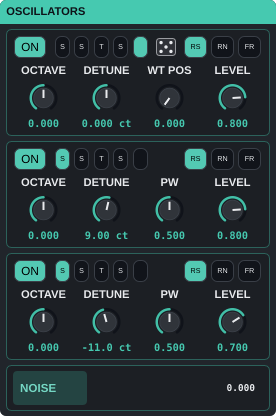
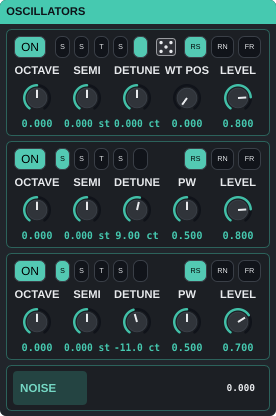
Per-oscillator coarse tune (SEMI) + Fifth Stack (bank -> 101)
Each oscillator gains a SEMI param: coarse tune in semitones (-24..+24),
sitting next to OCTAVE, so you can stack musical intervals (a fifth, a
fourth) from a single key instead of only octaves.

- Params: osc1/2/3_semi (int -24..+24, default 0), added to perPartSoundIds
  so they save/recall + edit-focus-swap per part.
- Frequency: SynthVoice::setFrequency adds + semi/12 to each osc's exp2
  exponent. Default 0 => exponent unchanged => goldens bit-identical.
- RANDOM: SEMI forced to 0 st (in tune) for now (a future density pass will
  quantize it to musical intervals — see docs/plans/random-density.md).
- UI: a 5th knob per oscillator (row /4 -> /5), grouped with OCTAVE; the
  PW<->WT-POS swap moves to the new PW slot. Screenshots regenerated.
- Test: osc2 SEMI +7 measures a perfect fifth (2^(7/12)), +12 an octave.

New Fifth Stack lead uses it (osc2 +7, osc3 +1 oct) — an instant
power-interval lead, the feature the bank lacked. Count 100 -> 101.

Release 530 + sanitizer (ASan/LSan/UBSan + soak) green.

diff --git a/Source/UI/Sections.h b/Source/UI/Sections.h
@@ -65,6 +65,7 @@ public:
         const char* waveIds[] { ID::osc1Wave, ID::osc2Wave, ID::osc3Wave };
         const char* wtPosIds[]  { ID::osc1WtPos,  ID::osc2WtPos,  ID::osc3WtPos  };
         const char* octIds[]  { ID::osc1Octave, ID::osc2Octave, ID::osc3Octave };
+        const char* semiIds[] { ID::osc1Semi, ID::osc2Semi, ID::osc3Semi };
         const char* detIds[]  { ID::osc1Detune, ID::osc2Detune, ID::osc3Detune };
         const char* pwIds[]   { ID::osc1PW, ID::osc2PW, ID::osc3PW };
         const char* lvlIds[]  { ID::osc1Level, ID::osc2Level, ID::osc3Level };
@@ -79,11 +80,13 @@ public:
             o.wave = std::make_unique<HSelector> (p.apvts, waveIds[i], p.getMidiLearn(), waveLabels);
             o.phase = std::make_unique<HSelector> (p.apvts, phIds[i], p.getMidiLearn(), phaseLabels);
             o.phase->setHelp ("Start phase per note: RST reset / RND random / FRE free-run");
-            o.k[0] = std::make_unique<RotaryKnob> (p.apvts, octIds[i], "OCTAVE", p.getMidiLearn());
-            o.k[1] = std::make_unique<RotaryKnob> (p.apvts, detIds[i], "DETUNE", p.getMidiLearn());
-            o.k[2] = std::make_unique<RotaryKnob> (p.apvts, pwIds[i],  "PW",     p.getMidiLearn());
-            o.k[3] = std::make_unique<RotaryKnob> (p.apvts, lvlIds[i], "LEVEL",  p.getMidiLearn());
-            // #95 3c: a WT POS knob shares the PW slot (k[2]) — PW is meaningless for a wavetable.
+            o.k[0] = std::make_unique<RotaryKnob> (p.apvts, octIds[i],  "OCTAVE", p.getMidiLearn());
+            o.k[1] = std::make_unique<RotaryKnob> (p.apvts, semiIds[i], "SEMI",   p.getMidiLearn());
+            o.k[1]->setHelp ("Coarse tune this oscillator in semitones (-24..+24) — stack intervals like a fifth");
+            o.k[2] = std::make_unique<RotaryKnob> (p.apvts, detIds[i], "DETUNE", p.getMidiLearn());
+            o.k[3] = std::make_unique<RotaryKnob> (p.apvts, pwIds[i],  "PW",     p.getMidiLearn());
+            o.k[4] = std::make_unique<RotaryKnob> (p.apvts, lvlIds[i], "LEVEL",  p.getMidiLearn());
+            // #95 3c: a WT POS knob shares the PW slot (k[3]) — PW is meaningless for a wavetable.
             // A ParameterAttachment on the wave choice swaps which of the two is visible (the same
             // same-bounds morph idiom as the LFO RATE<->DIV knob and the EnvSection AMP/MOD swap).
             o.wtpos = std::make_unique<RotaryKnob> (p.apvts, wtPosIds[i], "WT POS", p.getMidiLearn());
@@ -147,10 +150,10 @@ public:
             // in WT mode. Reserved always (not carved on mode change) so nothing shifts between modes.
             o.die->setBounds (top.removeFromRight (22).reduced (0, 3)); top.removeFromRight (4);
             o.wave->setBounds (top);
-            const int kw = c.getWidth() / 4;
-            for (int k = 0; k < 4; ++k)
-                o.k[(size_t) k]->setBounds ((k < 3 ? c.removeFromLeft (kw) : c).reduced (2, 0));
-            o.wtpos->setBounds (o.k[2]->getBounds());   // shares the PW slot (visibility swaps)
+            const int kw = c.getWidth() / 5;
+            for (int k = 0; k < 5; ++k)
+                o.k[(size_t) k]->setBounds ((k < 4 ? c.removeFromLeft (kw) : c).reduced (2, 0));
+            o.wtpos->setBounds (o.k[3]->getBounds());   // shares the PW slot (visibility swaps)
         }
         // NOISE fill-bar: fills the row to the right of the "NOISE" source label (the open middle
         // between them is the reserved post-1.0 COLOR-selector slot). The bar itself shows the level.
@@ -176,7 +179,7 @@ private:
         auto* wave = dynamic_cast<juce::AudioParameterChoice*> (proc.apvts.getParameter (waveId (osc)));
         const bool wt = wave != nullptr && wave->getIndex() == kWtWaveIndex;
         auto& o = oscs[(size_t) osc];
-        if (o.k[2])  o.k[2]->setVisible (! wt);
+        if (o.k[3])  o.k[3]->setVisible (! wt);
         if (o.wtpos) o.wtpos->setVisible (wt);
         if (o.die)   o.die->setVisible (wt);
     }
@@ -250,7 +253,7 @@ private:
     {
         std::unique_ptr<PowerToggle> on;
         std::unique_ptr<HSelector> wave, phase;
-        std::array<std::unique_ptr<RotaryKnob>, 4> k;
+        std::array<std::unique_ptr<RotaryKnob>, 5> k;   // OCTAVE, SEMI, DETUNE, PW, LEVEL
         std::unique_ptr<RotaryKnob> wtpos;                    // shares the PW slot; visible only in WT mode
         std::unique_ptr<DieButton>  die;                      // WT-mode re-roll affordance (right of the picker)
         std::unique_ptr<juce::ParameterAttachment> waveAtt;  // morphs PW <-> WT POS on wave change

diff --git a/Source/Parameters.h b/Source/Parameters.h
@@ -22,18 +22,21 @@ namespace ParamID
     // Oscillator 1
     inline constexpr auto osc1Wave    = "osc1_wave";     // saw / square / tri / sine
     inline constexpr auto osc1Octave  = "osc1_octave";   // -2..+2
+    inline constexpr auto osc1Semi    = "osc1_semi";     // coarse tune, -24..+24 semitones
     inline constexpr auto osc1Detune  = "osc1_detune";   // cents
     inline constexpr auto osc1PW      = "osc1_pw";       // pulse width (square only)
 
     // Oscillator 2
     inline constexpr auto osc2Wave    = "osc2_wave";
     inline constexpr auto osc2Octave  = "osc2_octave";
+    inline constexpr auto osc2Semi    = "osc2_semi";
     inline constexpr auto osc2Detune  = "osc2_detune";
     inline constexpr auto osc2PW      = "osc2_pw";
 
     // Oscillator 3 (6A)
     inline constexpr auto osc3Wave    = "osc3_wave";
     inline constexpr auto osc3Octave  = "osc3_octave";
+    inline constexpr auto osc3Semi    = "osc3_semi";
     inline constexpr auto osc3Detune  = "osc3_detune";
     inline constexpr auto osc3PW      = "osc3_pw";
 
@@ -253,16 +256,19 @@ inline juce::AudioProcessorValueTreeState::ParameterLayout createParameterLayout
     // --- Oscillators -------------------------------------------------------
     params.push_back(std::make_unique<Pc>(juce::ParameterID{ID::osc1Wave, 1},  "Osc1 Wave", waveNames, 0));
     params.push_back(std::make_unique<P >(juce::ParameterID{ID::osc1Octave, 1},"Osc1 Octave", juce::NormalisableRange<float>(-2.0f, 2.0f, 1.0f), 0.0f));
+    params.push_back(std::make_unique<P >(juce::ParameterID{ID::osc1Semi, 1},  "Osc1 Semi", juce::NormalisableRange<float>(-24.0f, 24.0f, 1.0f), 0.0f, juce::AudioParameterFloatAttributes().withLabel ("st")));
     params.push_back(std::make_unique<P >(juce::ParameterID{ID::osc1Detune, 1},"Osc1 Detune", juce::NormalisableRange<float>(-100.0f, 100.0f), 0.0f, juce::AudioParameterFloatAttributes().withLabel ("ct")));
     params.push_back(std::make_unique<P >(juce::ParameterID{ID::osc1PW, 1},    "Osc1 PW", juce::NormalisableRange<float>(0.05f, 0.95f), 0.5f));
 
     params.push_back(std::make_unique<Pc>(juce::ParameterID{ID::osc2Wave, 1},  "Osc2 Wave", waveNames, 0));
     params.push_back(std::make_unique<P >(juce::ParameterID{ID::osc2Octave, 1},"Osc2 Octave", juce::NormalisableRange<float>(-2.0f, 2.0f, 1.0f), 0.0f));
+    params.push_back(std::make_unique<P >(juce::ParameterID{ID::osc2Semi, 1},  "Osc2 Semi", juce::NormalisableRange<float>(-24.0f, 24.0f, 1.0f), 0.0f, juce::AudioParameterFloatAttributes().withLabel ("st")));
     params.push_back(std::make_unique<P >(juce::ParameterID{ID::osc2Detune, 1},"Osc2 Detune", juce::NormalisableRange<float>(-100.0f, 100.0f), 7.0f, juce::AudioParameterFloatAttributes().withLabel ("ct")));
     params.push_back(std::make_unique<P >(juce::ParameterID{ID::osc2PW, 1},    "Osc2 PW", juce::NormalisableRange<float>(0.05f, 0.95f), 0.5f));
 
     params.push_back(std::make_unique<Pc>(juce::ParameterID{ID::osc3Wave, 1},  "Osc3 Wave", waveNames, 0));
     params.push_back(std::make_unique<P >(juce::ParameterID{ID::osc3Octave, 1},"Osc3 Octave", juce::NormalisableRange<float>(-2.0f, 2.0f, 1.0f), 0.0f));
+    params.push_back(std::make_unique<P >(juce::ParameterID{ID::osc3Semi, 1},  "Osc3 Semi", juce::NormalisableRange<float>(-24.0f, 24.0f, 1.0f), 0.0f, juce::AudioParameterFloatAttributes().withLabel ("st")));
     params.push_back(std::make_unique<P >(juce::ParameterID{ID::osc3Detune, 1},"Osc3 Detune", juce::NormalisableRange<float>(-100.0f, 100.0f), 0.0f, juce::AudioParameterFloatAttributes().withLabel ("ct")));
     params.push_back(std::make_unique<P >(juce::ParameterID{ID::osc3PW, 1},    "Osc3 PW", juce::NormalisableRange<float>(0.05f, 0.95f), 0.5f));
 

diff --git a/tests/dsp/test_osc6a.cpp b/tests/dsp/test_osc6a.cpp
@@ -158,3 +158,30 @@ TEST_CASE ("toggling an oscillator on mid-note does not click", "[6a][kill][clic
     REQUIRE (tu::allFinite (out));
     REQUIRE (atEv <= pre + 0.05f);                   // no click when the osc fades in
 }
+
+TEST_CASE ("osc coarse tune: SEMI shifts an oscillator by exact semitones", "[6a][osc][semi]")
+{
+    // Measure osc2 alone (osc1/3 off). SEMI +12 must double the fundamental (octave);
+    // SEMI +7 must raise it by a fifth (2^(7/12) = 1.4983). Default 0 is the reference.
+    auto peakHz = [] (float semi)
+    {
+        VoiceParams p;
+        p.osc1Wave = 0; p.osc1Level = 0.0f;                       // osc1 off
+        p.osc2Wave = 0; p.osc2Level = 0.8f; p.osc2Semi = semi;    // the oscillator under test
+        p.osc3Level = 0.0f;
+        p.cutoffHz = 18000.0f; p.filterEnvAmt = 0.0f; p.keytrack = 0.0f;
+        p.ampA = 0.001f; p.ampD = 0.001f; p.ampS = 1.0f;
+        auto out   = render1 (p, 57, 1.0f, 32768);               // note 57 = A3 = 220 Hz
+        auto slice = tu::slice (out, 4096, 16384);               // 2^14 window past the attack
+        auto mag   = tu::magnitudeSpectrum (slice);
+        const double binHz = kSR / (double) slice.size();
+        int peak = 1; for (int k = 2; k < (int) mag.size(); ++k) if (mag[(size_t) k] > mag[(size_t) peak]) peak = k;
+        return peak * binHz;
+    };
+    const double f0  = peakHz (0.0f);
+    const double f7  = peakHz (7.0f);
+    const double f12 = peakHz (12.0f);
+    REQUIRE (f0  == Catch::Approx (220.0).margin (4.0));         // sanity: A3
+    REQUIRE (f7  / f0 == Catch::Approx (1.4983).margin (0.02));  // a perfect fifth
+    REQUIRE (f12 / f0 == Catch::Approx (2.0).margin (0.02));     // an octave
+}

diff --git a/Source/DSP/SynthVoice.h b/Source/DSP/SynthVoice.h
@@ -31,6 +31,7 @@ struct VoiceParams
     // osc
     int    osc1Wave = 0, osc2Wave = 0, osc3Wave = 0;
     float  osc1Octave = 0, osc2Octave = 0, osc3Octave = 0;
+    float  osc1Semi   = 0, osc2Semi   = 0, osc3Semi   = 0;   // coarse tune, semitones (-24..+24)
     float  osc1Detune = 0, osc2Detune = 0, osc3Detune = 0;   // cents
     float  osc1PW = 0.5f, osc2PW = 0.5f, osc3PW = 0.5f;
     // Musicality Tier 1a: per-oscillator start-phase policy (0 RESET / 1 RANDOM / 2 FREE).
@@ -488,9 +489,9 @@ private:
         osc1.setWavetable (p.osc1WtTable);
         osc2.setWavetable (p.osc2WtTable);
         osc3.setWavetable (p.osc3WtTable);
-        osc1.setFrequency (f0 * std::exp2 (p.osc1Octave + (p.osc1Detune + d1c) / 1200.0f));
-        osc2.setFrequency (f0 * std::exp2 (p.osc2Octave + (p.osc2Detune + d2c) / 1200.0f));
-        osc3.setFrequency (f0 * std::exp2 (p.osc3Octave + (p.osc3Detune + d3c) / 1200.0f));
+        osc1.setFrequency (f0 * std::exp2 (p.osc1Octave + p.osc1Semi / 12.0f + (p.osc1Detune + d1c) / 1200.0f));
+        osc2.setFrequency (f0 * std::exp2 (p.osc2Octave + p.osc2Semi / 12.0f + (p.osc2Detune + d2c) / 1200.0f));
+        osc3.setFrequency (f0 * std::exp2 (p.osc3Octave + p.osc3Semi / 12.0f + (p.osc3Detune + d3c) / 1200.0f));
         osc1.setPulseWidth (std::clamp (p.osc1PW + p.pwMod + extraPwMod + dpw, 0.05f, 0.95f));
         osc2.setPulseWidth (std::clamp (p.osc2PW + p.pwMod + extraPwMod + dpw, 0.05f, 0.95f));
         osc3.setPulseWidth (std::clamp (p.osc3PW + p.pwMod + extraPwMod + dpw, 0.05f, 0.95f));

diff --git a/Source/PluginProcessor.cpp b/Source/PluginProcessor.cpp
@@ -388,6 +388,9 @@ static VoiceParams buildVoiceParams (const juce::AudioProcessorValueTreeState& a
     p.osc1Octave = rp (apvts, ID::osc1Octave);
     p.osc2Octave = rp (apvts, ID::osc2Octave);
     p.osc3Octave = rp (apvts, ID::osc3Octave);
+    p.osc1Semi   = rp (apvts, ID::osc1Semi);
+    p.osc2Semi   = rp (apvts, ID::osc2Semi);
+    p.osc3Semi   = rp (apvts, ID::osc3Semi);
     p.osc1Detune = rp (apvts, ID::osc1Detune);
     p.osc2Detune = rp (apvts, ID::osc2Detune);
     p.osc3Detune = rp (apvts, ID::osc3Detune);
@@ -516,6 +519,7 @@ static const juce::StringArray& perPartSoundIds()
     namespace ID = ParamID;
     static const juce::StringArray ids {
         ID::osc1Wave, ID::osc2Wave, ID::osc3Wave, ID::osc1Octave, ID::osc2Octave, ID::osc3Octave,
+        ID::osc1Semi, ID::osc2Semi, ID::osc3Semi,
         ID::osc1Detune, ID::osc2Detune, ID::osc3Detune, ID::osc1PW, ID::osc2PW, ID::osc3PW,
         ID::osc1Phase, ID::osc2Phase, ID::osc3Phase, ID::analog,   // Tier 1 phase policy + analog drift
         ID::osc1WtKind, ID::osc2WtKind, ID::osc3WtKind, ID::osc1WtPos, ID::osc2WtPos, ID::osc3WtPos,   // #95 WT

diff --git a/Source/PresetManager.h b/Source/PresetManager.h
@@ -152,6 +152,8 @@ public:
 
             float v = rng.nextFloat();                                     // default: full range
             if      (id == ID::osc1On)        v = 1.0f;                     // guarantee a live source
+            else if (id == ID::osc1Semi || id == ID::osc2Semi || id == ID::osc3Semi)
+                                              v = 0.5f;                     // coarse tune -> 0 st (stay in tune)
             else if (id == ID::lfoDepth)      v = 0.6f  * rng.nextFloat();  // subtle-to-moderate mod
             else if (id == ID::filterReso)    v = 0.7f  * rng.nextFloat();  // avoid a constant scream
             else if (id == ID::noiseLevel)    v = 0.3f  * rng.nextFloat();  // seasoning, not the dish

diff --git a/tests/plugin/test_presets_factory.cpp b/tests/plugin/test_presets_factory.cpp
@@ -37,7 +37,7 @@ TEST_CASE ("factory library has the expected presets spanning the categories", "
     VASynthProcessor p;
     const auto& lib = p.factoryPresetLibrary();
 
-    REQUIRE (lib.size() == 100);       // ... + 18 deepening (H-B) [65 -8 +4 +15 +6 +18]
+    REQUIRE (lib.size() == 101);       // ... + Fifth Stack (coarse-tune) [65 -8 +4 +15 +6 +18 +1]
     for (auto& fp : lib.all())
     {
         REQUIRE (fp.name.isNotEmpty());

diff --git a/docs/plans/random-density.md b/docs/plans/random-density.md
@@ -1,0 +1,41 @@
+# RANDOM density reshape — design goal
+
+**Keep full-range wildness; reshape the probability density toward usable.** The problem with
+uniform Wild mode isn't randomness — it's that uniform sampling spends most of its probability mass
+in regions no synthesist would dwell (a 22 s attack with a closed filter over a silent oscillator
+isn't "wild," it's broken). Same support, radically better odds. Keep the existing
+archetype / constrained / wild split; **all of this applies inside Wild.**
+
+Five mechanisms, ordered by bang-per-effort:
+
+1. **Perceptual distributions.** Sample times and frequencies **log-uniformly**, not uniformly (a
+   5 ms vs 50 ms attack is a bigger musical difference than 20 s vs 20.05 s; uniform sampling
+   doesn't know that). Same range, better odds. — cheapest, biggest win.
+2. **Broken-patch invariants** (extend the audibility floor): filter not fully closed over the only
+   sounding octave; attack + release not *both* extreme simultaneously; level staging normalized.
+   These **cull defects, not character** — a screaming self-osc chaos patch passes; silence doesn't.
+3. **A per-press coherence latent.** Roll one hidden "temperament" value per press
+   (percussive ↔ sustained) and loosely correlate the envelopes to it. Random patches gain internal
+   consistency — the quality that makes a sound feel intentional — while every parameter still varies.
+4. **SEMI joins randomize quantized, not excluded.** (The shipped coarse-tune keeps it at 0.)
+   Better: `{0, ±5, ±7, ±12}` with occasional chromatic outliers. Random intervals are a huge cheap
+   win for interestingness. — supersedes the current `v = 0.5` (0 st) rule in `PresetManager::randomize`.
+5. **Reject-and-resample** (the experimental one): render ~250 ms headlessly after generating; if it's
+   silent, DC, or clipping-broken, silently re-roll (cap ~5 tries). This is the mechanism that lets
+   everything else stay loose.
+
+## Feasibility of (5) — the offline render check
+
+**Cheap enough for a button press.** RANDOM fires on the message thread, not the audio thread, so a
+few ms of latency is invisible. 250 ms @ 48 k = 12 000 samples ≈ 24 blocks of 512 → a scratch
+`SynthEngine` setup + ~24 `render()` calls is well under ~2 ms; ≤5 attempts ≈ ≤10 ms worst case.
+The **scratch-render path already exists** — `bakePresetParams()` renders candidate state into a
+throwaway APVTS without disturbing the live voice, and the loudness/velocity tests render presets
+headlessly the same way. So the work is: generate → bake to scratch → render 250 ms → classify
+(silent / DC / clip-broken) → keep or re-roll — all off the audio thread. No new infrastructure.
+
+## SEMI interval-variant audition batch (separate, for UAT Part 3.6)
+
+Curated listening pass, **not a retro-edit sweep**. Intervals transform specific patch *classes*;
+propose ~8 candidates as auditionable variant presets (new names, originals untouched); only winners
+commit. `Fifth Stack` already proves the concept. See the H-follow-on task.

diff --git a/docs/presets.md b/docs/presets.md
@@ -1,6 +1,6 @@
 # Presets
 
-synth ships with 100 read-only **factory presets** plus **Init**, and you can
+synth ships with 101 read-only **factory presets** plus **Init**, and you can
 save your own. The Load menu (in the Global panel) groups everything by category.
 
 ## Loading
@@ -25,7 +25,7 @@ same grouping; **Load drum kit** lists **Factory** and **User** kits with each k
 | Category | Presets |
 |---|---|
 | Bass    | Deep Sub, Reese Bass, Acid Bass, WT Growl Bass, Sub + Click, Reese Redux, Power Grind, Velvet Bass, Stab Bass, Cavern Bass |
-| Lead    | Bright Lead, Foundry Lead, Dream Chime, PWM Anthem, Chip Lead, Supersaw, Screamer, Vowel Talk Lead, Glass Whistle, Soft Solo |
+| Lead    | Bright Lead, Foundry Lead, Dream Chime, PWM Anthem, Chip Lead, Fifth Stack, Supersaw, Screamer, Vowel Talk Lead, Glass Whistle, Soft Solo |
 | Keys    | E-Piano, Digital Bell, EP Bark, Soft EP, Bell Keys, Clav Bite, Velvet Poly, Tape Keys, Toy Piano, Glass Harmonica |
 | Pad     | Aurora Pad, Boreal, Choir Ahh, Submerged, Prairie Ensemble, Floating Poly, Anvil Choir, Warm Pad, Glass Pad, WT Vowel Pad, Motion Pad, WT Drift Pad, Dark Hollow |
 | Pluck   | Synth Pluck, Nylon Pluck, Music Box, Kalimba, Raindrop, Foundry Stomp, Ice Pluck, WT Marimba, Rubber Pluck |

diff --git a/CHANGELOG.md b/CHANGELOG.md
@@ -27,6 +27,11 @@ Post-1.0 work on `master` (not yet tagged; the ThinkPad validation is the final 
   breath, not hiss).
 
 ### Added
+- **Per-oscillator coarse tune (SEMI) + Fifth Stack (bank now 101).** Each oscillator gains a
+  **SEMI** knob — coarse tune in semitones (−24…+24), next to OCTAVE — so you can stack intervals
+  (a fifth, a fourth) from a single key, not just octaves. New **Fifth Stack** lead uses it: osc2 a
+  fifth up, osc3 an octave up, for an instant power-interval lead. Default 0 (no effect on existing
+  patches); RANDOM keeps it in tune.
 - **Category deepening — 18 more patches (bank now 100).** Filling gaps across the bank: Bass
   (**Velvet Bass**, **Stab Bass**, **Cavern Bass**), Lead (**PWM Anthem**, **Chip Lead**), Pad
   (**Choir Ahh**, **Boreal**, **Submerged**), Keys (**Toy Piano**, **Glass Harmonica**), Pluck
